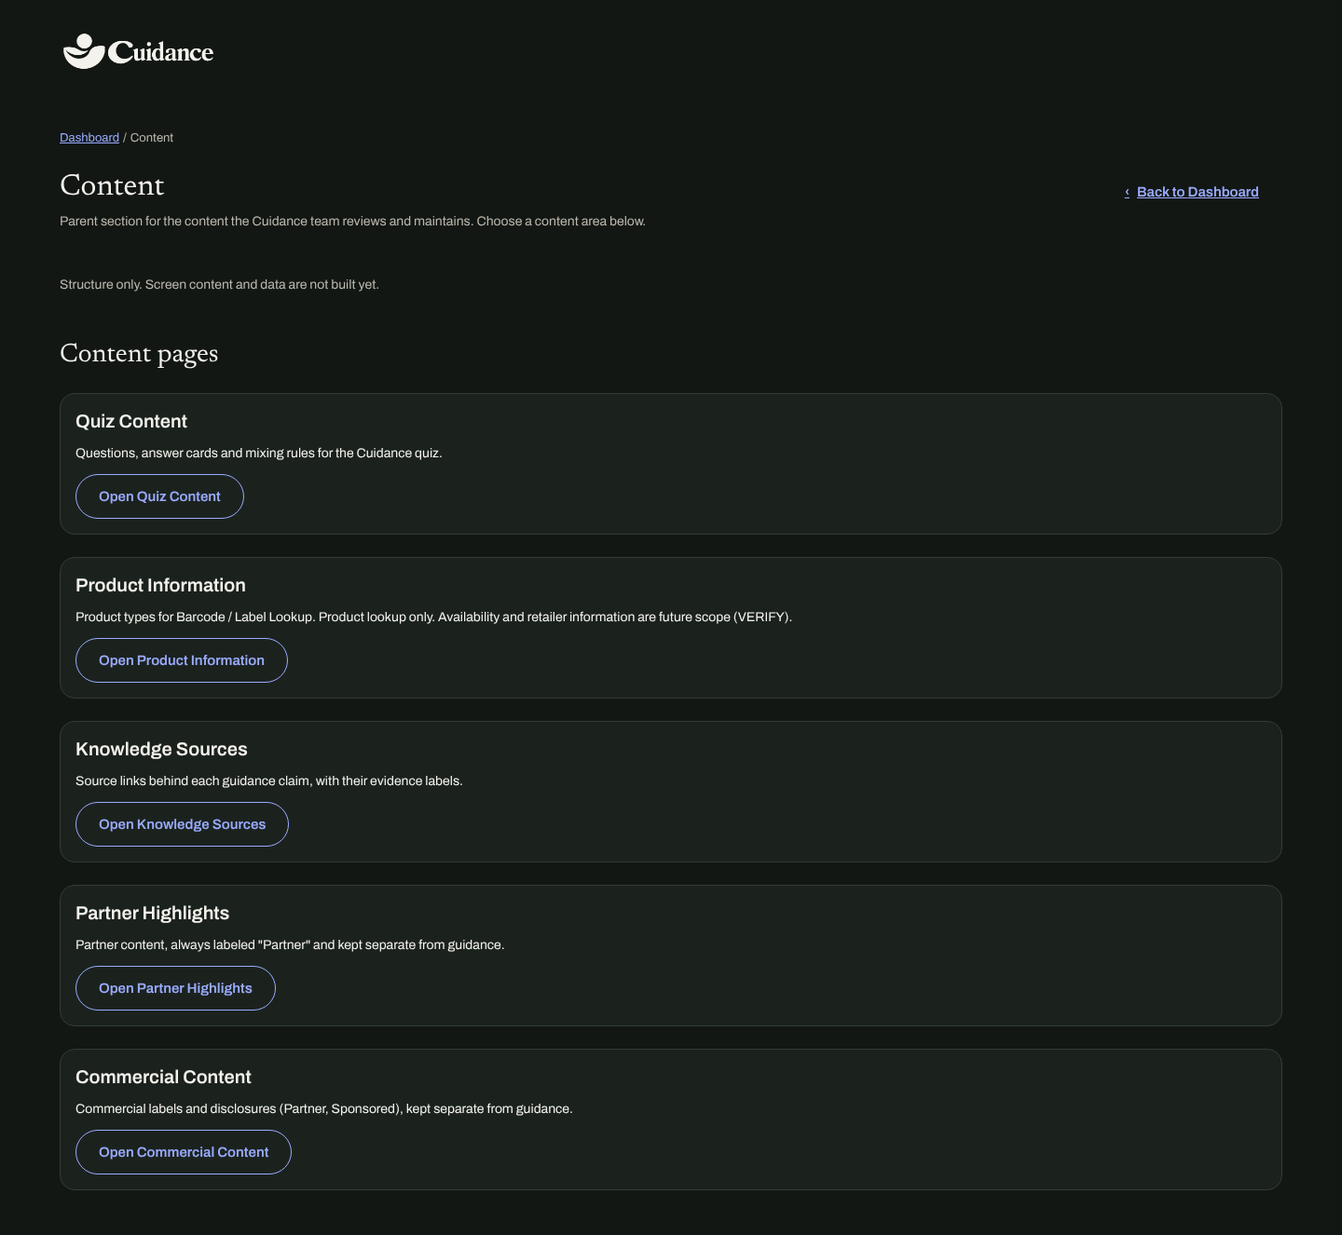
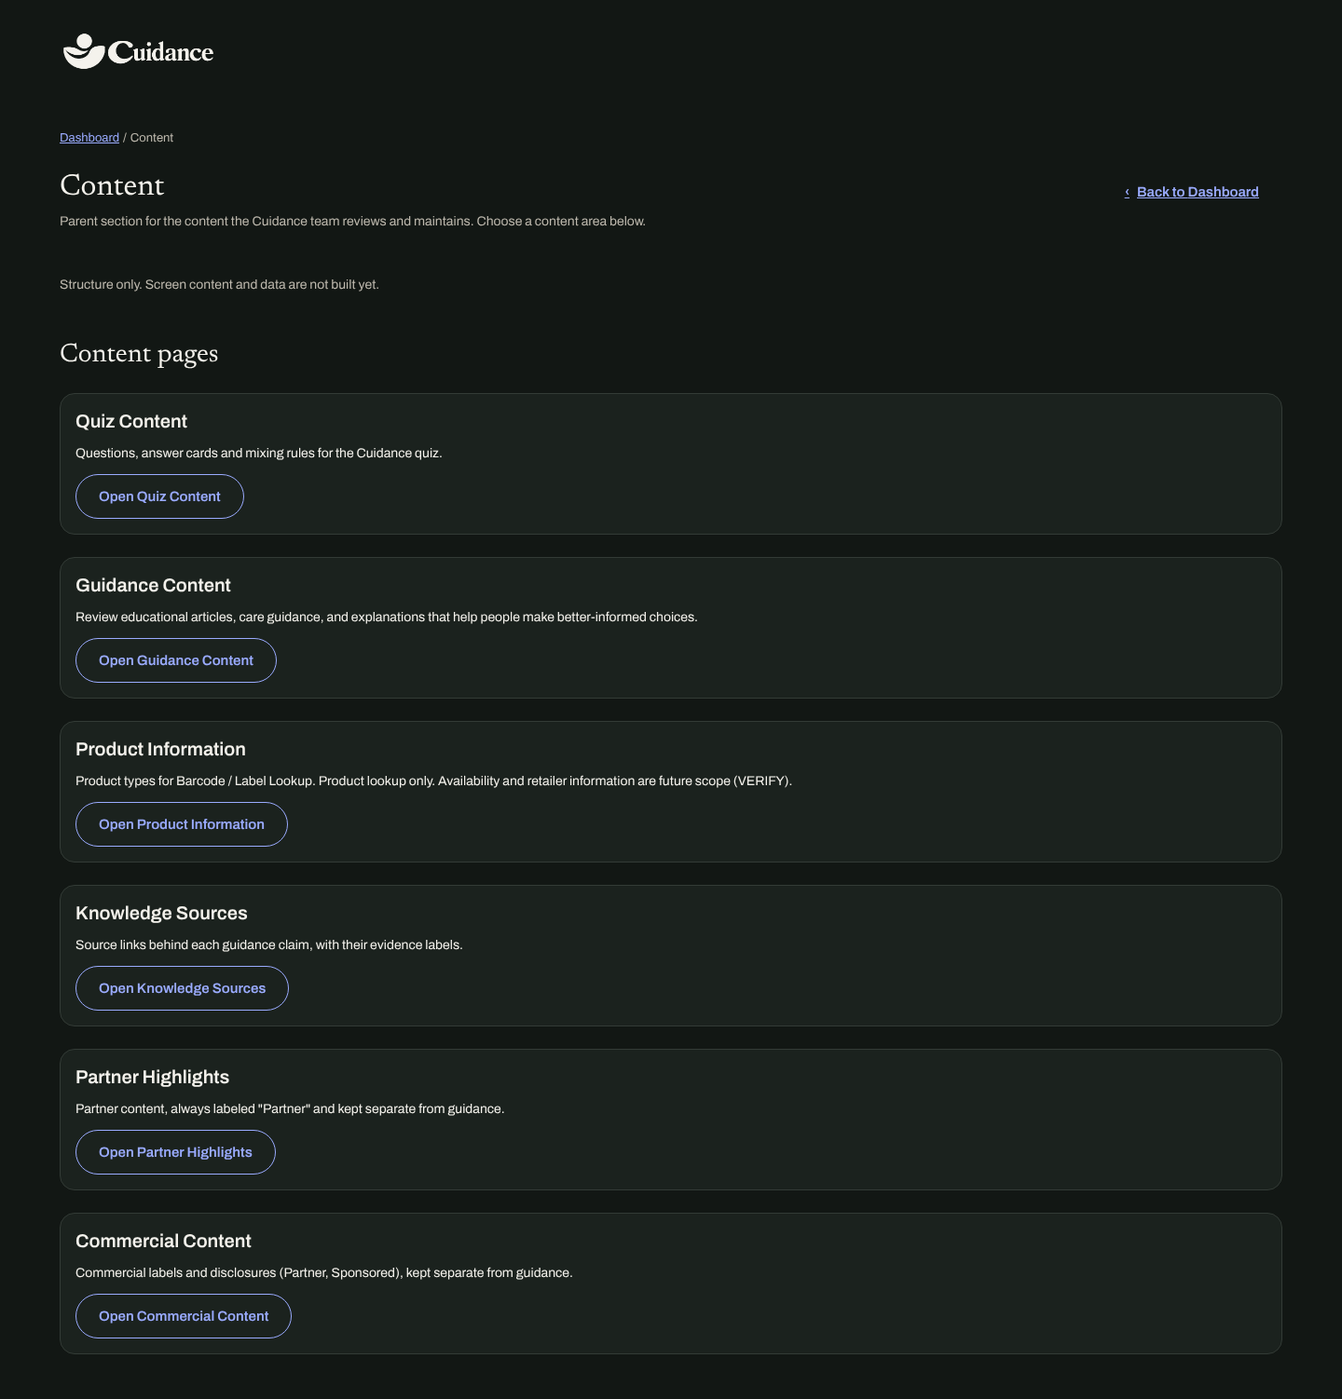
Add Guidance Content route under Content (Stage 1)
- /content/guidance-content/ with the title "Guidance Content",
  second under Content, scope note from the verified hi-fi screen
- Defined in shared/content/admin-web-screens.ts; same structure and
  shared components as the other route-map screens
- route-map.md: current sources, evidence per screen, Guidance Content
  verification; older wireframe PDF questions replaced
- Reconciliation report: Guidance Content implemented and verified;
  other conflicts still need Team 03 confirmation

No sidebar, breadcrumb, back-link or parent changes. No data.

Claude-Session: https://claude.ai/code/session_01G2wYwUJdDpMZsqBVJSwRsJ

diff --git a/shared/content/admin-web-screens.ts b/shared/content/admin-web-screens.ts
@@ -10,6 +10,7 @@ export type AdminScreenId =
   | 'dashboard'
   | 'content'
   | 'quiz-content'
+  | 'guidance-content'
   | 'product-information'
   | 'knowledge-sources'
   | 'partner-highlights'
@@ -54,6 +55,14 @@ export const adminScreens: Record<AdminScreenId, AdminScreen> = {
     parent: 'content',
     scopeNote: 'Questions, answer cards and mixing rules for the Cuidance quiz.',
     related: ['review-tasks'],
+  },
+  // Visually verified against the current Guidance Content hi-fi reference (Week 10 Step 2)
+  'guidance-content': {
+    id: 'guidance-content',
+    name: 'Guidance Content',
+    path: '/content/guidance-content/',
+    parent: 'content',
+    scopeNote: 'Review educational articles, care guidance, and explanations that help people make better-informed choices.',
   },
   'product-information': {
     id: 'product-information',

diff --git a/admin-web/app/content/guidance-content/page.tsx b/admin-web/app/content/guidance-content/page.tsx
@@ -1,0 +1,7 @@
+import { ScreenPage, screenMetadata } from '../../_screens/ScreenPage';
+
+export const metadata = screenMetadata('guidance-content');
+
+export default function Page() {
+  return <ScreenPage id="guidance-content" />;
+}

diff --git a/docs/Week-10/route-map.md b/docs/Week-10/route-map.md
@@ -3,13 +3,16 @@
 A structural navigation pass. Each approved Admin Web screen now has a Next.js route that shows only its title, its parent (breadcrumb), a short scope note and working links. **No screen content, data, Supabase, authentication or backend logic was built.**
 
 - **Branch:** `feat/admin-web-route-map`, from `main` at `3df35a0`
-- **Date:** Oct 27, 2026
-- **Prepared by:** Claude Code for Team 03. **Needs review by Alyssa and Esme**, especially the open questions at the end.
+- **Date:** Oct 27, 2026 (Guidance Content added the same day)
+- **Prepared by:** Claude Code for Team 03. **Needs review by Alyssa and Esme**, especially the open decisions in `docs/Week-10/admin-web-source-reconciliation.md`.
 
 ## Sources
 
-- The screen list and names in the Week 10 Step 2 request, which match the terms in CLAUDE.md (Product Information, Partner Highlights, Commercial Content, Account Support, Content Metrics).
-- The Admin Web hi-fi wireframes (`T03_CuidanceAdminWeb_HiFiScreens_v01_ART646.pdf`), checked for names and hierarchy. **The PDF has no text layer, and its small text is pixelated in the file itself**, so wireframe names below are best readings and are marked "(best reading)" where unsure. Where the request and the wireframes differ, the request was followed and the difference is listed under "Open questions for Team 03".
+- **The five current Team 03 hi-fi screen images** (Dashboard, Quiz Content, Guidance Content, Product Information, Claims & Safety Review). They are the visual source of truth for those screens.
+- **For every other screen,** the approved screen-name list and current CLAUDE.md terminology only.
+- **The older wireframe PDF** (`T03_CuidanceAdminWeb_HiFiScreens_v01_ART646.pdf`) **is no longer a source.** The first version of this route map used it. The open questions that came from it are replaced by the reconciliation report.
+
+`docs/Week-10/admin-web-source-reconciliation.md` holds the full comparison, the evidence label for each screen, and the decisions waiting on Team 03.
 
 ## 1. Route map
 
@@ -19,6 +22,7 @@ Dashboard is the landing page. Content is the only parent with child pages.
 /                                  Dashboard
 ├── /content/                      Content
 │   ├── /content/quiz-content/          Quiz Content
+│   ├── /content/guidance-content/      Guidance Content
 │   ├── /content/product-information/   Product Information
 │   ├── /content/knowledge-sources/     Knowledge Sources
 │   ├── /content/partner-highlights/    Partner Highlights
@@ -35,23 +39,39 @@ Unchanged and outside the route map: `/dev/` (internal component preview, reacha
 
 On GitHub Pages every path starts with `/Cuidance_Admin` (for example `/Cuidance_Admin/content/quiz-content/`).
 
-## 2. Wireframe screens and routes
+## 2. Screens, routes and evidence
 
-| Screen (route name) | Route | Parent | File | Wireframe name or group |
+Evidence labels come from the reconciliation report: **VERIFIED** (visible in a current hi-fi image), **STRUCTURAL ONLY** (approved name, no current image) and **NEEDS TEAM CONFIRMATION** (the source is missing or conflicts with the route).
+
+| Screen | Route | Parent | File | Evidence |
 | --- | --- | --- | --- | --- |
-| Dashboard | `/` | (landing page) | `admin-web/app/page.tsx` | Dashboard group: Review Queue (default view) |
-| Content | `/content/` | Dashboard | `admin-web/app/content/page.tsx` | "Content" in the sidebar (parent item) |
-| Quiz Content | `/content/quiz-content/` | Content | `admin-web/app/content/quiz-content/page.tsx` | Quiz Content |
-| Product Information | `/content/product-information/` | Content | `admin-web/app/content/product-information/page.tsx` | **Product Catalog** |
-| Knowledge Sources | `/content/knowledge-sources/` | Content | `admin-web/app/content/knowledge-sources/page.tsx` | Knowledge Sources |
-| Partner Highlights | `/content/partner-highlights/` | Content | `admin-web/app/content/partner-highlights/page.tsx` | **Partner & Commercial Content: Highlights** |
-| Commercial Content | `/content/commercial-content/` | Content | `admin-web/app/content/commercial-content/page.tsx` | **Partner & Commercial Content: Management** |
-| Guidance Rules Review | `/guidance-rules-review/` | Dashboard | `admin-web/app/guidance-rules-review/page.tsx` | **Guidance Rules** (sidebar); Guidance Correction Detail (best reading) |
-| Claims & Safety Review | `/claims-safety-review/` | Dashboard | `admin-web/app/claims-safety-review/page.tsx` | **Claims & Safety** (sidebar); Claim Review Detail |
-| Content Metrics | `/content-metrics/` | Dashboard | `admin-web/app/content-metrics/page.tsx` | **Metrics**, under Dashboard; App Activity Report (best reading) |
-| Account Support | `/account-support/` | Dashboard | `admin-web/app/account-support/page.tsx` | **Accounts**, under Settings ("Support page · internal only", best reading) |
-| Review Tasks | `/review-tasks/` | Dashboard | `admin-web/app/review-tasks/page.tsx` | **Review Tasks**, under Dashboard; Review Task Detail |
-| Settings | `/settings/` | Dashboard | `admin-web/app/settings/page.tsx` | Settings (parent of Accounts and Team Access) |
+| Dashboard | `/` | (landing page) | `admin-web/app/page.tsx` | VERIFIED |
+| Content | `/content/` | Dashboard | `admin-web/app/content/page.tsx` | VERIFIED as the parent (breadcrumbs on the Content screens) |
+| Quiz Content | `/content/quiz-content/` | Content | `admin-web/app/content/quiz-content/page.tsx` | VERIFIED |
+| Guidance Content | `/content/guidance-content/` | Content | `admin-web/app/content/guidance-content/page.tsx` | VERIFIED. **Added Oct 27, 2026** |
+| Product Information | `/content/product-information/` | Content | `admin-web/app/content/product-information/page.tsx` | VERIFIED |
+| Knowledge Sources | `/content/knowledge-sources/` | Content | `admin-web/app/content/knowledge-sources/page.tsx` | NEEDS TEAM CONFIRMATION (parent) |
+| Partner Highlights | `/content/partner-highlights/` | Content | `admin-web/app/content/partner-highlights/page.tsx` | NEEDS TEAM CONFIRMATION (parent) |
+| Commercial Content | `/content/commercial-content/` | Content | `admin-web/app/content/commercial-content/page.tsx` | NEEDS TEAM CONFIRMATION (not in the current source) |
+| Guidance Rules Review | `/guidance-rules-review/` | Dashboard | `admin-web/app/guidance-rules-review/page.tsx` | STRUCTURAL ONLY |
+| Claims & Safety Review | `/claims-safety-review/` | Dashboard | `admin-web/app/claims-safety-review/page.tsx` | VERIFIED (breadcrumb wording waits on a Team 03 decision) |
+| Content Metrics | `/content-metrics/` | Dashboard | `admin-web/app/content-metrics/page.tsx` | STRUCTURAL ONLY |
+| Account Support | `/account-support/` | Dashboard | `admin-web/app/account-support/page.tsx` | STRUCTURAL ONLY |
+| Review Tasks | `/review-tasks/` | Dashboard | `admin-web/app/review-tasks/page.tsx` | STRUCTURAL ONLY |
+| Settings | `/settings/` | Dashboard | `admin-web/app/settings/page.tsx` | STRUCTURAL ONLY. No Team Access route |
+
+### Guidance Content against its hi-fi reference
+
+| Element | Hi-fi reference | Built | Note |
+| --- | --- | --- | --- |
+| Title | Guidance Content | Guidance Content | Matches |
+| Parent | Content (breadcrumb "Admin / Content / Guidance Content") | Content | Matches |
+| Order under Content | After Quiz Content (Quiz Content sidebar and Dashboard Key Areas) | Second, after Quiz Content | Matches |
+| Description | "Review educational articles, care guidance, and explanations that help people make better-informed choices." | Same text, as the scope note | Matches |
+| Breadcrumb root | Admin | Dashboard | Kept the same as every other screen. Breadcrumb wording isn't changed for one screen (decision C2) |
+| Eyebrow | INTERNAL TOOL | Content | Same pattern as the other Content pages (screen-build step) |
+| Back link | None shown | ‹ Back to Content | Kept the same as every other screen (decision C3) |
+| Search, status filter, "Add guidance", table, detail panel | Shown | Not built | Data, editing and detail views are out of scope for this pass |
 
 Names, parents and scope notes are defined once in `shared/content/admin-web-screens.ts`. Every route file renders the same structure through `admin-web/app/_screens/ScreenPage.tsx`, which only combines the existing PageHeader, Breadcrumb, Card and ButtonLink components. The `_screens` folder is private, so Next.js doesn't treat it as a route.
 
@@ -75,7 +95,7 @@ No sidebar or tab bar was built: navigation components aren't in the approved co
 | Parent | Children |
 | --- | --- |
 | Dashboard | Content, Guidance Rules Review, Claims & Safety Review, Content Metrics, Account Support, Review Tasks, Settings |
-| Content | Quiz Content, Product Information, Knowledge Sources, Partner Highlights, Commercial Content |
+| Content | Quiz Content, Guidance Content, Product Information, Knowledge Sources, Partner Highlights, Commercial Content |
 
 **What each screen shows:**
 
@@ -83,7 +103,7 @@ No sidebar or tab bar was built: navigation components aren't in the approved co
 | --- | --- | --- | --- | --- |
 | Dashboard | (none) | Internal tool | (none) | Open link to each top-level section |
 | Content | Dashboard / Content | (none) | ‹ Back to Dashboard | Open link to each child page |
-| Content child pages (5) | Dashboard / Content / *page* | Content | ‹ Back to Content | Quiz Content also links to Review Tasks |
+| Content child pages (6) | Dashboard / Content / *page* | Content | ‹ Back to Content | Quiz Content also links to Review Tasks |
 | Other top-level pages (6) | Dashboard / *page* | (none) | ‹ Back to Dashboard | (none) |
 
 The last breadcrumb item is the current page (`aria-current="page"`, not a link). Back links use the ghost button style, and Open and Go to links use the secondary style. No structural page has a primary button.
@@ -99,27 +119,16 @@ The last breadcrumb item is the current page (`aria-current="page"`, not a link)
 
 Tested by clicking through in both builds (site root and `/Cuidance_Admin/`). Every step lands on the expected page.
 
-## 5. Open questions for Team 03
+## 5. Open decisions for Team 03
 
-Each one is an ambiguity between the wireframes and the requested route list. The routes follow the request until Team 03 decides.
-
-1. **Product Information or Product Catalog.** The wireframe names the screen "Product Catalog". The route uses "Product Information" (CLAUDE.md and the request).
-2. **Partner Highlights and Commercial Content: one item or two.** The wireframe has one sidebar item, "Partner & Commercial Content", with two views (Highlights and Management). The routes are two separate Content children, as requested.
-3. **The "Review" suffix.** The wireframe sidebar says "Guidance Rules" and "Claims & Safety". The routes say "Guidance Rules Review" and "Claims & Safety Review".
-4. **Where Review Tasks and Content Metrics sit.** In the wireframe, Review Tasks and Metrics are under Dashboard (Dashboard > Review Queue, Review Tasks, Metrics). The routes make them top-level items, and the metrics screen is named "Content Metrics".
-5. **Where Account Support sits.** In the wireframe, "Accounts" is under Settings. The route is a top-level "Account Support" item.
-6. **Team Access.** The wireframe has a Team Access screen under Settings. It isn't in the requested list, so no route was made. Confirm whether it's in scope, and that it's internal team access only, not public account management.
-7. **Review Queue.** The wireframe shows Review Queue as the Dashboard's default view. The route map treats it as the Dashboard (`/`), with no separate route.
-8. **Detail and sub-screens.** The wireframes include detail and sub-screens with no route yet: Quiz Question Detail, Branch & Routing Rules, Quiz Configuration, Result Content Record, a guest and account status screen (best reading), Guidance Correction Detail, Claim Review Detail, Review Task Detail and App Activity Report. They need routes when their screens are built. Names need the source file, because the PDF text is unreadable at that size.
-9. **Breadcrumb root label.** The wireframe top bar appears to start with "Admin". The routes start with "Dashboard", because it's the landing page. `/dev/` still starts with "Admin". Pick one.
-10. **Navigation component.** The wireframes show a persistent sidebar. It isn't in the approved component inventory, so it wasn't built. Navigation works through the Dashboard and Content links and the back links for now.
+The open questions from the first version came from the older wireframe PDF, so they've been removed. The current open decisions (C1 to C9) are in `docs/Week-10/admin-web-source-reconciliation.md`. Still open: the sidebar items, breadcrumb root and labels, back links, the Content landing page, the parents of Knowledge Sources and Partner Highlights, Commercial Content, Team Access, and any other Content children.
 
 ## Verification
 
 | Check | Result |
 | --- | --- |
 | TypeScript (`npx tsc --noEmit`) | Passed |
-| `npm run build` | Passed. 13 route-map screens plus `/dev` and `/_not-found` exported as static pages |
+| `npm run build` | Passed. 14 route-map screens (13 at first, plus Guidance Content), `/dev` and `/_not-found` exported as static pages |
 | GitHub Pages build (`GITHUB_PAGES=true`) | Passed. Every link includes `/Cuidance_Admin/` |
 | Every route loads | 240 browser loads: 2 builds × 15 pages × 4 widths × 2 modes. Every route returned 200 (the 404 page returned 404) with the right title |
 | `npm run dev` | All 15 paths load with the right title. No console errors in light or dark mode |
@@ -134,6 +143,7 @@ Each one is an ambiguity between the wireframes and the requested route list. Th
 | Primary buttons | At most one per page (none on the structural pages) |
 | JavaScript errors | None |
 | Wording | No banned words, em dashes or `#` links. "Diagnosis" appears only in the boundary note "No diagnosis or medical review" and the existing `/dev/` helper text |
+| Guidance Content (added Oct 27, 2026) | 16 loads: 2 builds × 4 widths (1440, 834, 390, 320) × light and dark. Right title, breadcrumb and back link, no overflow, no target under 44 px, no errors. Click-through Dashboard → Content → Guidance Content → Back to Content works in both builds. Content lists it second, after Quiz Content. Keyboard: Dashboard, Content, Back to Content, each with the focus ring |
 | Dependencies | None added. `package.json` and the lockfile are unchanged |
 | Tokens, logo, favicon, components | Unchanged |
 
@@ -144,7 +154,9 @@ Screenshots in `docs/Week-10/evidence/`:
 | File | What it shows |
 | --- | --- |
 | `routes-dashboard-1440-light.png` | Dashboard with links to each section |
-| `routes-content-1440-light.png`, `routes-content-1440-dark.png` | Content parent page, both modes |
+| `routes-content-1440-light.png`, `routes-content-1440-dark.png` | Content parent page with all six children, both modes |
+| `routes-guidance-content-1440-light.png`, `routes-guidance-content-1440-dark.png` | Guidance Content on desktop, both modes |
+| `routes-guidance-content-320-dark.png` | Guidance Content at 320 px |
 | `routes-quiz-content-320-dark.png` | Quiz Content child page at 320 px |
 | `routes-review-tasks-1440-light.png` | Review Tasks top-level page |
 | `routes-claims-safety-review-320-dark.png` | Claims & Safety Review at 320 px |

diff --git a/docs/Week-10/admin-web-source-reconciliation.md b/docs/Week-10/admin-web-source-reconciliation.md
@@ -1,8 +1,8 @@
 # Week 10 Step 2: Admin Web source reconciliation audit
 
-An audit only. It compares the current Team 03 Admin Web hi-fi screen references with the route map on `feat/admin-web-route-map` (routes from commit `c195ada`). **No application code, routes, navigation, tokens, components or assets were changed.** No pull request has been opened.
+It compares the current Team 03 Admin Web hi-fi screen references with the route map on `feat/admin-web-route-map` (routes from commit `c195ada`). The audit itself changed no code. **Stage 1 has since been implemented:** the Guidance Content route was added. Nothing else changed: no other routes, navigation, breadcrumb wording, back links, tokens, components or assets. No pull request has been opened.
 
-- **Date:** Oct 27, 2026 (revised the same day)
+- **Date:** Oct 27, 2026 (revised the same day; Stage 1 implemented the same day)
 - **Prepared by:** Claude Code for Team 03. **Needs review by Alyssa and Esme.**
 
 ## Source rules for this audit
@@ -47,7 +47,7 @@ Existing breadcrumbs and back links are as built in `c195ada`. Breadcrumbs start
 | Dashboard | **VERIFIED** | `/` | (landing page) | None | None (landing page) | MATCH | None for routing. A1's layout (Review Queue section, Key Areas, Needs attention) belongs to the screen-build step | A1 |
 | Content | **VERIFIED** (as the parent) | `/content/` | Dashboard | Dashboard / Content | ‹ Back to Dashboard | MATCH | Keep Content as the parent. No Content landing screen is shown, so keeping `/content/` as a page of links needs confirmation (C4) | A2, A3, A4 breadcrumbs |
 | Quiz Content | **VERIFIED** | `/content/quiz-content/` | Content | Dashboard / Content / Quiz Content | ‹ Back to Content | MATCH (breadcrumb root differs) | Name, route and parent match. The verified breadcrumb starts with "Admin" (C2). A2 shows no back link (C3) | A2 |
-| Guidance Content | **VERIFIED** | None | None | None | None | **MISSING** | Add `/content/guidance-content/` under Content, named "Guidance Content", with breadcrumb "… / Content / Guidance Content". Also in CLAUDE.md scope ("guidance content") | A3 (and A1 Key Areas) |
+| Guidance Content | **VERIFIED** | `/content/guidance-content/` (**implemented Oct 27, 2026**) | Content | Dashboard / Content / Guidance Content | ‹ Back to Content | **MATCH (implemented)** | Done. Title "Guidance Content", under Content, second after Quiz Content. The scope note is A3's description. Breadcrumb root (C2) and back link (C3) follow the same shared pattern as every other screen until those are decided | A3 (and A1 Key Areas, A2 sidebar order) |
 | Product Information | **VERIFIED** | `/content/product-information/` | Content | Dashboard / Content / Product Information | ‹ Back to Content | MATCH (breadcrumb root differs) | Name, route and parent match. Breadcrumb root as C2 | A4 |
 | Claims & Safety Review | **VERIFIED** | `/claims-safety-review/` | Dashboard (top-level) | Dashboard / Claims & Safety Review | ‹ Back to Dashboard | **UPDATE** (breadcrumb only) | Title, route and top-level parent match. The verified breadcrumb is "Admin / Claims & Safety": a different root, and a short label as the last item. Change after C2 and C5 | A5 |
 | Knowledge Sources | **NEEDS TEAM CONFIRMATION** | `/content/knowledge-sources/` | Content | Dashboard / Content / Knowledge Sources | ‹ Back to Content | Parent not confirmed | The name is approved, but no image shows it. Placing it under Content isn't shown anywhere, and A1 has a top-level "Sources" item. Keep the route unchanged until Team 03 confirms the parent (C6) | Approved name list; CLAUDE.md ("sources"); conflicting placement in A1 |
@@ -100,24 +100,24 @@ Not routing issues, but they'll matter when these screens are built. Each needs 
 
 | Route status | Screens |
 | --- | --- |
-| MATCH | Dashboard, Content, Quiz Content, Product Information, and the five STRUCTURAL ONLY screens |
+| MATCH | Dashboard, Content, Quiz Content, Guidance Content (implemented Oct 27, 2026), Product Information, and the five STRUCTURAL ONLY screens |
 | UPDATE | Claims & Safety Review (breadcrumb, after C2 and C5) |
-| MISSING | Guidance Content |
+| MISSING | None |
 
 ## Should the route implementation be revised?
 
 Yes, in two stages.
 
-**Stage 1. Supported by the current source; can go ahead once approved:**
+**Stage 1. Done (Oct 27, 2026).**
 
-1. Add **Guidance Content** at `/content/guidance-content/` under Content (VERIFIED in A3).
-2. Update `shared/content/admin-web-screens.ts` and `docs/Week-10/route-map.md` to match. The route map should drop its older-PDF citations and its old open questions, and point to this report.
+1. **Guidance Content** added at `/content/guidance-content/` under Content (VERIFIED in A3). Defined in `shared/content/admin-web-screens.ts`, with the route file `admin-web/app/content/guidance-content/page.tsx`.
+2. **Docs updated:** `docs/Week-10/route-map.md` no longer cites the older PDF. It lists the evidence for each screen and points to this report for the open decisions.
 
-**Stage 2. Waits for Team 03 decisions C1 to C9:**
+**Stage 2. Still waiting for Team 03 decisions C1 to C9.** Nothing here has changed:
 
-- Remove or keep **Commercial Content** (C7).
-- Confirm or move **Knowledge Sources** and **Partner Highlights** (C6).
+- Remove or keep **Commercial Content** (C7). Still NEEDS TEAM CONFIRMATION.
+- Confirm or move **Knowledge Sources** and **Partner Highlights** (C6). Still NEEDS TEAM CONFIRMATION.
 - Breadcrumb root and labels (C2, C5), back links (C3), the Content landing page (C4), the sidebar (C1).
-- Team Access (C8) and any other Content children (C9).
+- Team Access (C8) and any other Content children (C9). Still NEEDS TEAM CONFIRMATION.
 
 The routes are structural only, with no data, so these revisions are low risk. No detail screens should be added yet.
